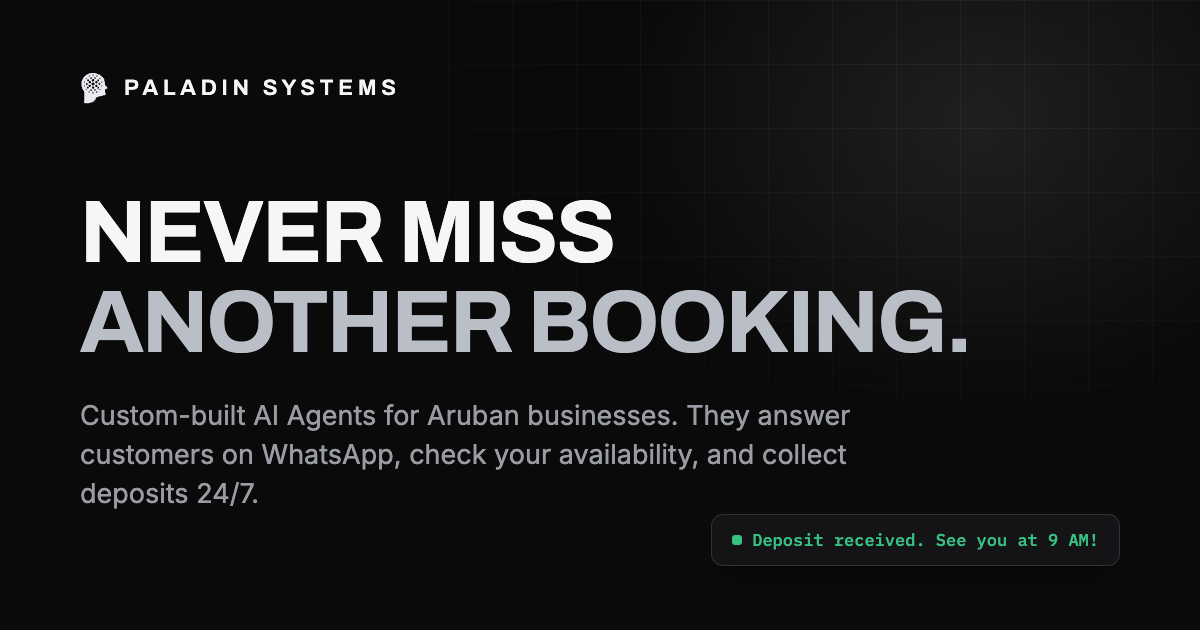
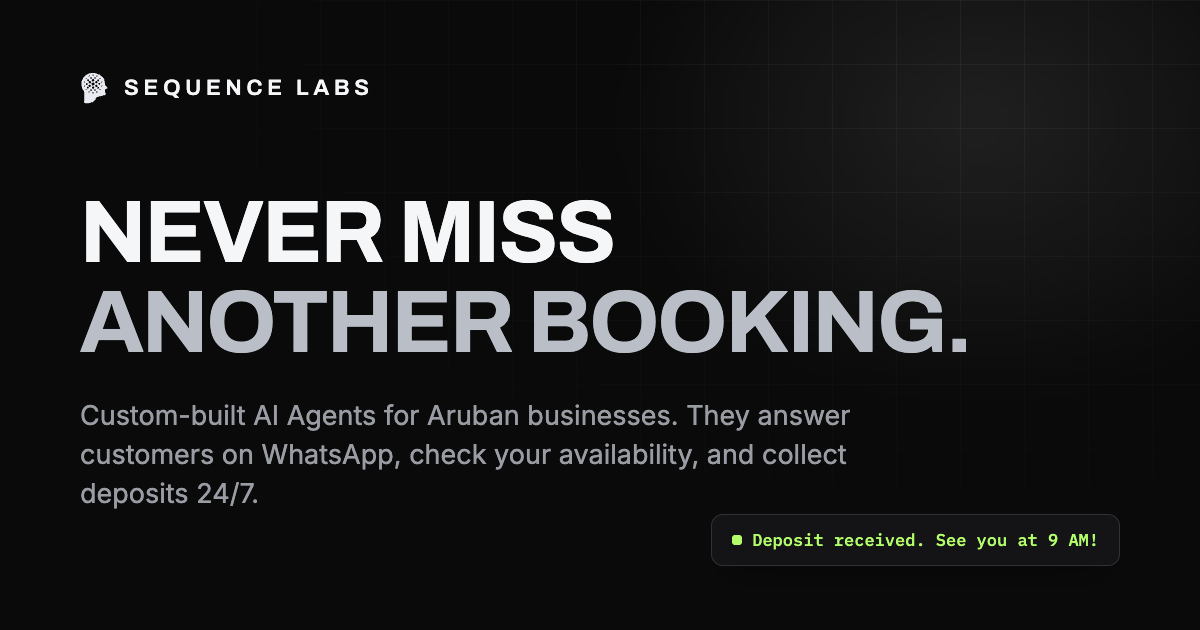
Rebrand to Sequence Labs: lime green, black, white
Renames the brand across nav, footer, metadata, schema, copy, and
README. Introduces the lime identity color (#b3fd6a): primary buttons
become lime with black text in both themes, signal accents shift to the
brand hue (readable dark green on light, lime on dark), and text
selection goes lime. Light canvas is now pure white. Favicon and apple
icon move to a lime tile with the black head mark; OG image regenerated
with the new name and accents. Grid background, theme toggle, and the
head symbol are unchanged. Live URL keeps paladin-systems.vercel.app
until the project is renamed or a domain is attached.

Changed region(s): [[0.5858, 0.8444, 0.925, 0.8746], [0.0925, 0.1206, 0.3392, 0.1508]]

diff --git a/src/components/logo.tsx b/src/components/logo.tsx
@@ -6,7 +6,7 @@ export const MARK_VIEWBOX = "0 0 100 108";
 export const MARK_PATH =
   "M42 3 C56 3.5 68 9 76 17.5 C79.5 21.5 81.4 25.5 82 30 L83.83 42.8 Q84 44 84.8 44.9 L92.2 53.1 Q93 54 91.9 54.5 L83.9 57.8 Q83 58.2 83 59.4 L83.2 61.8 C83.6 63.4 83.8 64.6 83.8 65.8 L85.4 69.5 Q86 71.4 85.5 73.3 L84.5 75.2 Q84 76.3 82.7 76.8 L56.2 84 Q55 84.5 54.4 85.8 C52.5 90 50.5 93.5 47.5 97 C40.5 102.5 27.5 105.2 17.5 104.6 Q14 104.2 13.5 101 C13.8 92 15.8 76 13.5 64.2 A37 37 0 0 1 42 3 ZM38 40a5.5 5.5 0 1 0 11 0a5.5 5.5 0 1 0 -11 0ZM39.3 27.5a4.2 4.2 0 1 0 8.4 0a4.2 4.2 0 1 0 -8.4 0ZM50.13 33.75a4.2 4.2 0 1 0 8.4 0a4.2 4.2 0 1 0 -8.4 0ZM50.13 46.25a4.2 4.2 0 1 0 8.4 0a4.2 4.2 0 1 0 -8.4 0ZM39.3 52.5a4.2 4.2 0 1 0 8.4 0a4.2 4.2 0 1 0 -8.4 0ZM28.47 46.25a4.2 4.2 0 1 0 8.4 0a4.2 4.2 0 1 0 -8.4 0ZM28.47 33.75a4.2 4.2 0 1 0 8.4 0a4.2 4.2 0 1 0 -8.4 0ZM46.79 20.03a3.2 3.2 0 1 0 6.4 0a3.2 3.2 0 1 0 -6.4 0ZM57.29 27.66a3.2 3.2 0 1 0 6.4 0a3.2 3.2 0 1 0 -6.4 0ZM61.3 40a3.2 3.2 0 1 0 6.4 0a3.2 3.2 0 1 0 -6.4 0ZM57.29 52.34a3.2 3.2 0 1 0 6.4 0a3.2 3.2 0 1 0 -6.4 0ZM46.79 59.97a3.2 3.2 0 1 0 6.4 0a3.2 3.2 0 1 0 -6.4 0ZM33.81 59.97a3.2 3.2 0 1 0 6.4 0a3.2 3.2 0 1 0 -6.4 0ZM23.31 52.34a3.2 3.2 0 1 0 6.4 0a3.2 3.2 0 1 0 -6.4 0ZM19.3 40a3.2 3.2 0 1 0 6.4 0a3.2 3.2 0 1 0 -6.4 0ZM23.31 27.66a3.2 3.2 0 1 0 6.4 0a3.2 3.2 0 1 0 -6.4 0ZM33.81 20.03a3.2 3.2 0 1 0 6.4 0a3.2 3.2 0 1 0 -6.4 0ZM41.4 10.5a2.1 2.1 0 1 0 4.2 0a2.1 2.1 0 1 0 -4.2 0ZM54.2 13.42a2.1 2.1 0 1 0 4.2 0a2.1 2.1 0 1 0 -4.2 0ZM64.46 21.61a2.1 2.1 0 1 0 4.2 0a2.1 2.1 0 1 0 -4.2 0ZM70.16 33.44a2.1 2.1 0 1 0 4.2 0a2.1 2.1 0 1 0 -4.2 0ZM70.16 46.56a2.1 2.1 0 1 0 4.2 0a2.1 2.1 0 1 0 -4.2 0ZM64.46 58.39a2.1 2.1 0 1 0 4.2 0a2.1 2.1 0 1 0 -4.2 0ZM54.2 66.58a2.1 2.1 0 1 0 4.2 0a2.1 2.1 0 1 0 -4.2 0ZM41.4 69.5a2.1 2.1 0 1 0 4.2 0a2.1 2.1 0 1 0 -4.2 0ZM28.6 66.58a2.1 2.1 0 1 0 4.2 0a2.1 2.1 0 1 0 -4.2 0ZM18.34 58.39a2.1 2.1 0 1 0 4.2 0a2.1 2.1 0 1 0 -4.2 0ZM12.64 46.56a2.1 2.1 0 1 0 4.2 0a2.1 2.1 0 1 0 -4.2 0ZM12.64 33.44a2.1 2.1 0 1 0 4.2 0a2.1 2.1 0 1 0 -4.2 0ZM18.34 21.61a2.1 2.1 0 1 0 4.2 0a2.1 2.1 0 1 0 -4.2 0ZM28.6 13.42a2.1 2.1 0 1 0 4.2 0a2.1 2.1 0 1 0 -4.2 0Z";
 
-export function PaladinMark({ className }: { className?: string }) {
+export function SequenceMark({ className }: { className?: string }) {
   return (
     <svg
       viewBox={MARK_VIEWBOX}

diff --git a/src/app/globals.css b/src/app/globals.css
@@ -1,14 +1,15 @@
 @import "tailwindcss";
 
 @theme {
-  --color-canvas: #f6f7f9;
+  --color-canvas: #ffffff;
   --color-surface: #fdfdfe;
   --color-edge: #e5e8ed;
   --color-line: #d4d9e0;
   --color-fg: #15181d;
   --color-muted: #5f6774;
   --color-accent: #333a44;
-  --color-signal: #148256;
+  --color-signal: #3c7d14;
+  --color-brand: #b3fd6a;
 }
 
 @theme inline {
@@ -43,13 +44,13 @@
   --shadow-b: rgb(21 32 54 / 0.18);
   --shadow-c: rgb(21 32 54 / 0.14);
 
-  --btn-a: #1c2027;
-  --btn-b: #0e1013;
-  --btn-a-hover: #262b34;
-  --btn-b-hover: #14171c;
-  --btn-text: #f5f6f7;
-  --btn-topline: rgb(255 255 255 / 0.14);
-  --btn-glow: rgb(21 24 29 / 0.35);
+  --btn-a: #bdff7d;
+  --btn-b: #a7f455;
+  --btn-a-hover: #c6ff8f;
+  --btn-b-hover: #b3fd6a;
+  --btn-text: #0c0f06;
+  --btn-topline: rgb(255 255 255 / 0.5);
+  --btn-glow: rgb(126 214 61 / 0.45);
 }
 
 :root[data-theme="dark"] {
@@ -61,7 +62,7 @@
   --color-fg: #f5f6f7;
   --color-muted: #9a9ca3;
   --color-accent: #d9dce1;
-  --color-signal: #37c081;
+  --color-signal: #b3fd6a;
 
   --halo-strong: rgb(255 255 255 / 0.07);
   --halo-soft: rgb(255 255 255 / 0.045);
@@ -80,13 +81,13 @@
   --shadow-b: rgb(0 0 0 / 0.55);
   --shadow-c: rgb(0 0 0 / 0.5);
 
-  --btn-a: #ffffff;
-  --btn-b: #dde1e7;
-  --btn-a-hover: #ffffff;
-  --btn-b-hover: #eef0f4;
-  --btn-text: #0a0a0b;
-  --btn-topline: rgb(255 255 255 / 0.95);
-  --btn-glow: rgb(255 255 255 / 0.22);
+  --btn-a: #bdff7d;
+  --btn-b: #a3f150;
+  --btn-a-hover: #c6ff8f;
+  --btn-b-hover: #b3fd6a;
+  --btn-text: #0c0f06;
+  --btn-topline: rgb(255 255 255 / 0.55);
+  --btn-glow: rgb(179 253 106 / 0.3);
 }
 
 /* Radius system: 16px containers/slabs, 10px interactive elements. */
@@ -222,6 +223,6 @@ body {
 }
 
 ::selection {
-  background: var(--color-accent);
-  color: var(--color-canvas);
+  background: #b3fd6a;
+  color: #101403;
 }

diff --git a/src/components/footer.tsx b/src/components/footer.tsx
@@ -1,4 +1,4 @@
-import { PaladinMark } from "@/components/logo";
+import { SequenceMark } from "@/components/logo";
 
 const LINKS = [
   { label: "How It Works", href: "#how-it-works" },
@@ -15,9 +15,9 @@ export function Footer() {
       <div className="mx-auto flex max-w-[1400px] flex-col gap-8 px-5 py-14 md:flex-row md:items-center md:justify-between lg:px-8">
         <div>
           <div className="flex items-center gap-2.5">
-            <PaladinMark className="size-5 text-accent" />
+            <SequenceMark className="size-5 text-accent" />
             <span className="font-display text-[13px] font-semibold tracking-[0.22em] text-fg">
-              PALADIN SYSTEMS
+              SEQUENCE LABS
             </span>
           </div>
           <p className="mt-3 max-w-[38ch] text-[13px] leading-relaxed text-muted">
@@ -38,7 +38,7 @@ export function Footer() {
             ))}
           </nav>
           <p className="font-mono text-[11px] text-muted">
-            &copy; 2026 Paladin Systems
+            &copy; 2026 Sequence Labs
           </p>
         </div>
       </div>

diff --git a/src/components/nav.tsx b/src/components/nav.tsx
@@ -2,7 +2,7 @@
 
 import { Menu, X } from "lucide-react";
 import { useState } from "react";
-import { PaladinMark } from "@/components/logo";
+import { SequenceMark } from "@/components/logo";
 import { ThemeToggle } from "@/components/theme-toggle";
 
 const LINKS = [
@@ -20,9 +20,9 @@ export function Nav() {
     <header className="fixed inset-x-0 top-0 z-50 px-3 pt-3 sm:px-5">
       <div className="glass-slab relative mx-auto flex h-14 max-w-[1240px] items-center justify-between rounded-2xl px-4 lg:px-5">
         <a href="#top" className="group flex items-center gap-2.5">
-          <PaladinMark className="size-[19px] text-accent transition-transform duration-300 group-hover:-rotate-6 group-hover:scale-105" />
+          <SequenceMark className="size-[19px] text-accent transition-transform duration-300 group-hover:-rotate-6 group-hover:scale-105" />
           <span className="font-display text-sm font-semibold tracking-[0.22em] text-fg">
-            PALADIN SYSTEMS
+            SEQUENCE LABS
           </span>
         </a>
 

diff --git a/src/components/audit-cta.tsx b/src/components/audit-cta.tsx
@@ -42,13 +42,13 @@ export function AuditCta() {
             <div className="lg:col-span-4 lg:justify-self-end">
               {/* Replace with the client's real intake address before launch. */}
               <a
-                href="mailto:ops@paladinsystems.aw?subject=Free%20Quote"
+                href="mailto:ops@sequencelabs.aw?subject=Free%20Quote"
                 className="btn-metal inline-block rounded-[10px] px-7 py-4 font-mono text-[13px] font-medium uppercase tracking-[0.08em] transition-all hover:-translate-y-0.5 active:scale-[0.98]"
               >
                 Get a Free Quote
               </a>
               <p className="mt-3 font-mono text-[11px] text-muted">
-                ops@paladinsystems.aw
+                ops@sequencelabs.aw
               </p>
             </div>
           </div>

diff --git a/src/lib/site.ts b/src/lib/site.ts
@@ -1,8 +1,8 @@
 /* Canonical site configuration. Update SITE_URL when the real domain is live. */
 export const SITE_URL = "https://paladin-systems.vercel.app";
-export const SITE_NAME = "Paladin Systems";
+export const SITE_NAME = "Sequence Labs";
 export const SITE_TITLE =
-  "AI Agents & Booking Automation for Aruban Businesses | Paladin Systems";
+  "AI Agents & Booking Automation for Aruban Businesses | Sequence Labs";
 export const SITE_DESCRIPTION =
   "Boutique AI agency in Aruba. We build AI Agents that answer WhatsApp, take bookings, collect deposits with secure payment links, and win 5-star reviews, 24/7.";
-export const CONTACT_EMAIL = "ops@paladinsystems.aw";
+export const CONTACT_EMAIL = "ops@sequencelabs.aw";

diff --git a/src/components/chat-player.tsx b/src/components/chat-player.tsx
@@ -3,7 +3,7 @@
 import { motion, useReducedMotion } from "framer-motion";
 import { CheckCircle2, LoaderCircle, Lock } from "lucide-react";
 import { useEffect, useMemo, useState } from "react";
-import { PaladinMark } from "@/components/logo";
+import { SequenceMark } from "@/components/logo";
 
 export type ChatStep =
   | { kind: "in"; text: string }
@@ -117,7 +117,7 @@ export function ChatPlayer({
               className="size-5"
             />
           ) : (
-            <PaladinMark className="size-5 text-accent" />
+            <SequenceMark className="size-5 text-accent" />
           )}
           <div className="min-w-0 flex-1">
             <p className="truncate text-[13.5px] font-semibold text-fg">

diff --git a/src/components/how-it-works.tsx b/src/components/how-it-works.tsx
@@ -76,7 +76,7 @@ export function HowItWorks() {
                   <CalendarCheck className="size-5 text-accent" strokeWidth={1.5} />
                 </div>
                 <h3 className="mt-4 font-display text-[17px] font-semibold text-fg">
-                  Paladin checks your schedule
+                  Sequence checks your schedule
                 </h3>
                 <div className="mt-4 max-w-[26ch] self-end rounded-2xl rounded-br-[6px] border border-accent/25 bg-accent/10 px-4 py-2.5 text-[13.5px] leading-snug text-fg [transform:translateZ(16px)]">
                   Yes, we have 2 left!

diff --git a/src/app/error.tsx b/src/app/error.tsx
@@ -1,11 +1,11 @@
 "use client";
 
-import { PaladinMark } from "@/components/logo";
+import { SequenceMark } from "@/components/logo";
 
 export default function Error({ reset }: { reset: () => void }) {
   return (
     <div className="flex min-h-[100svh] flex-col items-center justify-center gap-6 px-5 text-center">
-      <PaladinMark className="size-10 text-accent" />
+      <SequenceMark className="size-10 text-accent" />
       <div>
         <p className="font-mono text-[12px] uppercase tracking-[0.2em] text-muted">
           Something went wrong

diff --git a/src/app/not-found.tsx b/src/app/not-found.tsx
@@ -1,10 +1,10 @@
 import Link from "next/link";
-import { PaladinMark } from "@/components/logo";
+import { SequenceMark } from "@/components/logo";
 
 export default function NotFound() {
   return (
     <div className="flex min-h-[100svh] flex-col items-center justify-center gap-6 px-5 text-center">
-      <PaladinMark className="size-10 text-accent" />
+      <SequenceMark className="size-10 text-accent" />
       <div>
         <p className="font-mono text-[12px] uppercase tracking-[0.2em] text-muted">
           Page not found

diff --git a/src/app/layout.tsx b/src/app/layout.tsx
@@ -41,7 +41,7 @@ export const metadata: Metadata = {
         url: "/og.png",
         width: 1200,
         height: 630,
-        alt: "Paladin Systems: never miss another booking.",
+        alt: "Sequence Labs: never miss another booking.",
       },
     ],
   },
@@ -55,7 +55,7 @@ export const metadata: Metadata = {
 };
 
 export const viewport: Viewport = {
-  themeColor: "#f6f7f9",
+  themeColor: "#ffffff",
 };
 
 export default function RootLayout({ children }: LayoutProps<"/">) {

diff --git a/README.md b/README.md
@@ -1,6 +1,6 @@
-# Paladin Systems
+# Sequence Labs
 
-Marketing site for Paladin Systems: AI assistants for Aruban businesses that
+Marketing site for Sequence Labs: AI assistants for Aruban businesses that
 answer customers on WhatsApp, check availability, and collect deposits with
 secure payment links, 24/7.
 
